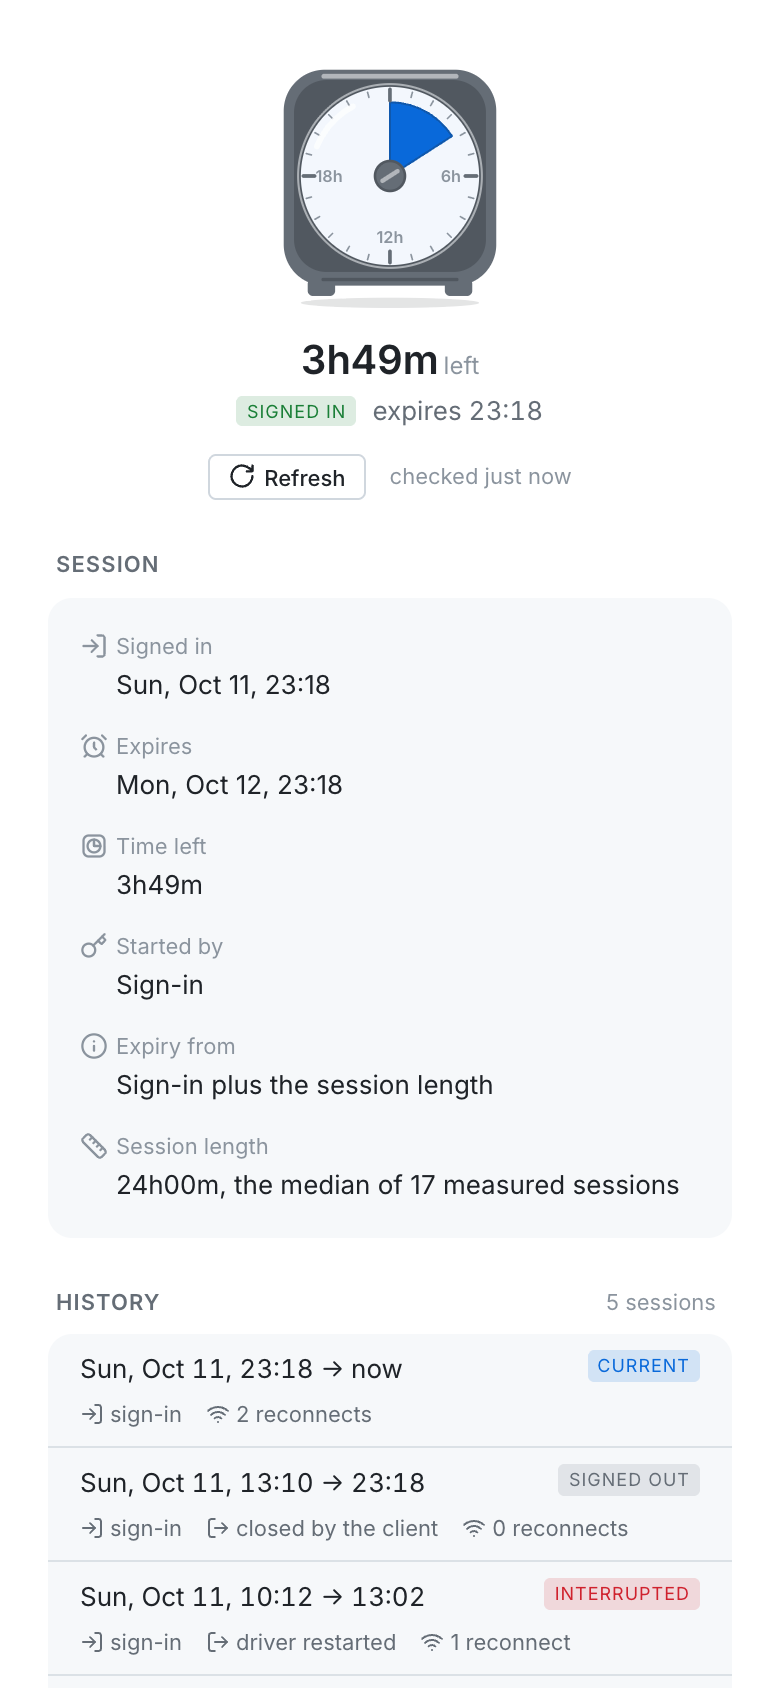
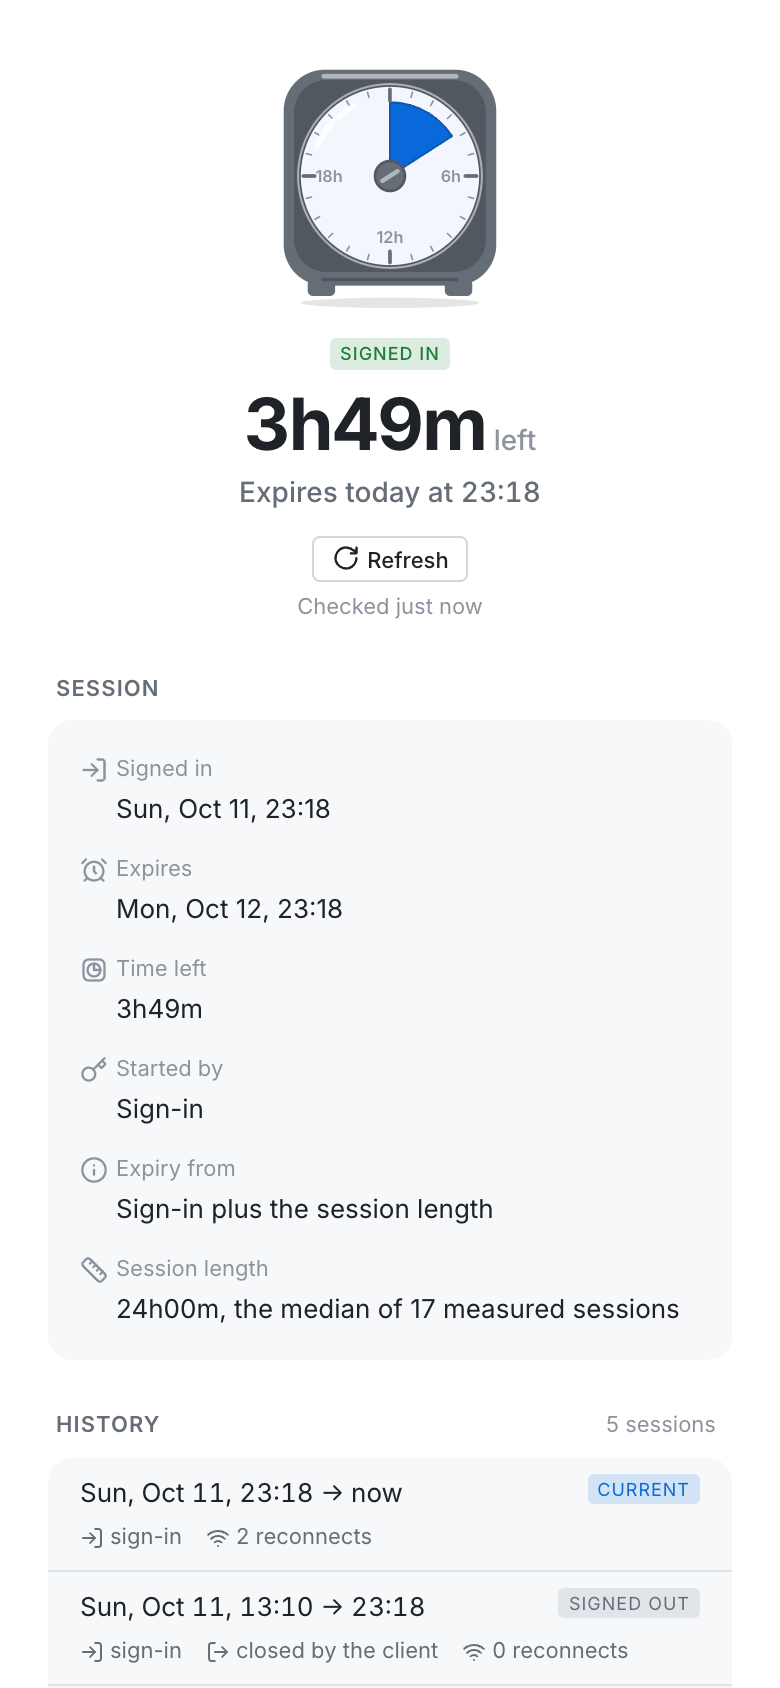
gatekeepr: bigger time left, expiry as its subtitle, checked time under Refresh
- The time left is the headline at display size, in the app and the
  widget, with the status chip above it in the app (only while signed
  in: Expired and Signed out already say so).
- When it expires is the subtitle right under it, with the day spelled
  out: "Expires today at 23:18", "Ran out ...", "Since ...".
- The last-checked time is a caption directly under the Refresh button,
  so the two read as one control.
- Regenerate the store screenshots.

diff --git a/gatekeepr/apps/gatekeepr-widget/index.html b/gatekeepr/apps/gatekeepr-widget/index.html
@@ -20,21 +20,24 @@
   [data-tone="danger"] { --tone: var(--accent-red); }
   [data-tone="muted"] { --tone: var(--text-muted); }
   .timer { width: 6.25rem; margin-bottom: var(--space-xs); }
-  .left { font-size: var(--font-size-3xl); font-weight: 600; line-height: 1.15; color: var(--text-primary); font-variant-numeric: tabular-nums; }
-  .left.is-word { font-size: var(--font-size-2xl); }
-  .left small { margin-left: 0.2em; font-size: var(--font-size-sm); font-weight: 400; color: var(--text-muted); }
+  /* The time left is the headline, and when it expires is its subtitle. */
+  .left { font-size: var(--font-size-display); font-weight: 700; line-height: 1.05; letter-spacing: -0.02em; color: var(--text-primary); font-variant-numeric: tabular-nums; }
+  .left.is-word { font-size: calc(var(--font-size-display) * 0.75); }
+  .left small { margin-left: 0.25em; font-size: var(--font-size-lg); font-weight: 500; letter-spacing: 0; color: var(--text-muted); }
   [data-tone="danger"] .left { color: var(--accent-red); }
 
-  .when { font-size: var(--font-size-md); color: var(--text-secondary); font-variant-numeric: tabular-nums; }
+  .when { margin-top: calc(-1 * var(--space-xs)); font-size: var(--font-size-lg); color: var(--text-secondary); font-variant-numeric: tabular-nums; }
   .problem { max-width: 18rem; font-size: var(--font-size-sm); color: var(--text-secondary); overflow-wrap: anywhere;
              display: -webkit-box; -webkit-box-orient: vertical; -webkit-line-clamp: 4; overflow: hidden; }
-  .note { font-size: var(--font-size-xs); color: var(--text-muted); }
+  /* Refresh with its last-checked time as a caption, so the two read as one control. */
+  .note { margin-top: calc(-1 * var(--space-xs)); font-size: var(--font-size-xs); color: var(--text-muted); }
   .refresh .mini-spinner { --spinner-color: currentColor; }
   .refresh .ic { width: var(--icon-size-sm); height: var(--icon-size-sm); margin-right: var(--space-xs); vertical-align: -0.125rem; }
 
   /* A floating widget window in minimal mode: the timer and its lines, on a fill of its own. */
   html[data-widget-mode="minimal"] body { padding: var(--space-md) var(--space-lg); background: var(--bg-secondary); border-radius: var(--radius-surface); }
   html[data-widget-mode="minimal"] .timer { width: 4.5rem; }
+  html[data-widget-mode="minimal"] .left { font-size: var(--font-size-3xl); }
   html[data-widget-mode="minimal"] .note, html[data-widget-mode="minimal"] .refresh, html[data-widget-mode="minimal"] .problem { display: none !important; }
   @media (pointer: coarse) {
     .action-btn { position: relative; }
@@ -47,8 +50,8 @@
   <div class="left" id="left">–</div>
   <div class="when" id="when"></div>
   <div class="problem" id="problem" hidden></div>
-  <div class="note" id="note" hidden></div>
   <button class="action-btn action-btn-secondary refresh" id="refresh" hidden>Refresh</button>
+  <div class="note" id="note" hidden></div>
 <script>
 lucidos.ui.applyPreferences();
 lucidos.ui.watchPreferences();
@@ -76,6 +79,11 @@ async function loadCadence() {
 }
 
 const clock = (iso) => new Date(iso).toLocaleTimeString([], { hour: '2-digit', minute: '2-digit', hourCycle: 'h23' });
+function relDay(iso) {          // "today at 23:18", "tomorrow at 09:14", or "Wed 14 at 09:14"
+  const days = Math.round((new Date(new Date(iso).toDateString()) - new Date(new Date().toDateString())) / 864e5);
+  const day = new Date(iso).toLocaleDateString([], { weekday: 'short', day: 'numeric' });
+  return `${days === 0 ? 'today' : days === 1 ? 'tomorrow' : days === -1 ? 'yesterday' : day} at ${clock(iso)}`;
+}
 // The CLI's own timeLeft style (6h08m, 25m, <1m), rounded down.
 function fmtLeft(s) {
   if (s < 60) return '<1m';
@@ -90,12 +98,12 @@ function view(w) {
   const s = w.status || {};
   if (!w.ok) return { tone: 'muted', value: 'Can’t check', word: true, problem: s.error || 'The check failed.', ask: true };
   if (s.state === 'noSession') return { tone: 'muted', value: 'No session', word: true, when: 'Nothing in the Appgate logs' };
-  if (s.state === 'signedOut') return { tone: 'muted', value: 'Signed out', word: true, when: s.sessionEnd ? `since ${clock(s.sessionEnd)}` : '' };
+  if (s.state === 'signedOut') return { tone: 'muted', value: 'Signed out', word: true, when: s.sessionEnd ? `Since ${relDay(s.sessionEnd)}` : '' };
   const left = s.secondsLeft - Math.floor((Date.now() - Date.parse(s.now)) / 1000);
-  if (s.state === 'expired' || left <= 0) return { tone: 'danger', value: 'Expired', word: true, when: `expired ${clock(s.expiresAt)}` };
+  if (s.state === 'expired' || left <= 0) return { tone: 'danger', value: 'Expired', word: true, when: `Ran out ${relDay(s.expiresAt)}` };
   return {
     tone: left <= s.warnThresholdSeconds ? 'warning' : 'normal',
-    value: fmtLeft(left), label: 'left', when: `expires ${clock(s.expiresAt)}`,
+    value: fmtLeft(left), label: 'left', when: `Expires ${relDay(s.expiresAt)}`,
     fraction: Math.max(0, Math.min(1, left / s.sessionLengthSeconds)),
   };
 }
@@ -113,7 +121,7 @@ function render() {
   $('problem').hidden = !v.problem;
   $('timer').setAttribute('aria-label', ['Appgate VPN', v.value + (v.label ? ' ' + v.label : ''), v.when].filter(Boolean).join(', '));
   const stale = snap && age > staleMs;
-  $('note').textContent = stale ? `checked ${lucidos.utils.timeAgo(snap.checked_at)}` : '';
+  $('note').textContent = stale ? `Checked ${lucidos.utils.timeAgo(snap.checked_at)}` : '';
   $('note').hidden = !stale;
   $('refresh').hidden = !(v.ask || stale || pending);
   $('refresh').disabled = !!pending;

diff --git a/gatekeepr/apps/gatekeepr/app.js b/gatekeepr/apps/gatekeepr/app.js
@@ -75,6 +75,10 @@ const clock = (iso) => new Date(iso).toLocaleTimeString([], { hour: '2-digit', m
 const day = (iso) => new Date(iso).toLocaleDateString([], { weekday: 'short', day: 'numeric', month: 'short' });
 const dayClock = (iso) => `${day(iso)}, ${clock(iso)}`;
 const sameDay = (a, b) => new Date(a).toDateString() === new Date(b).toDateString();
+function relDay(iso) {          // "today at 23:18", "tomorrow at 09:14", or "Wed, Oct 14 at 09:14"
+  const days = Math.round((new Date(new Date(iso).toDateString()) - new Date(new Date().toDateString())) / 864e5);
+  return `${days === 0 ? 'today' : days === 1 ? 'tomorrow' : days === -1 ? 'yesterday' : day(iso)} at ${clock(iso)}`;
+}
 function fmtLeft(s) {            // the CLI's timeLeft style: 6h08m, 25m, <1m, rounded down
   if (s < 60) return '<1m';
   const h = Math.floor(s / 3600), m = Math.floor((s % 3600) / 60);
@@ -136,18 +140,18 @@ async function loadSchedule() {
 /* Expiry is never recomputed: between checks the CLI's secondsLeft counts down by the time since its `now`,
  * which lands on its own expiresAt, and the state turns with its warnThresholdSeconds. */
 function view(w) {
-  if (!w) return { tone: 'muted', value: '–', headline: 'No check yet' };
+  if (!w) return { tone: 'muted', value: '–', subtitle: 'No check yet' };
   const s = w.status || {};
   if (!w.ok) return { tone: 'muted', value: 'Can’t check', word: true, problem: true };
-  if (s.state === 'noSession') return { tone: 'muted', value: 'No session', word: true, headline: 'No Appgate session anywhere in the logs' };
-  if (s.state === 'signedOut') return { tone: 'muted', value: 'Signed out', word: true, chip: ['Signed out', 'label label-neutral'], headline: s.sessionEnd ? `since ${dayClock(s.sessionEnd)}` : '' };
+  if (s.state === 'noSession') return { tone: 'muted', value: 'No session', word: true, subtitle: 'No Appgate session anywhere in the logs' };
+  if (s.state === 'signedOut') return { tone: 'muted', value: 'Signed out', word: true, subtitle: s.sessionEnd ? `Since ${relDay(s.sessionEnd)}` : '' };
   const left = s.secondsLeft - Math.floor((Date.now() - Date.parse(s.now)) / 1000);
-  if (s.state === 'expired' || left <= 0) return { tone: 'danger', value: 'Expired', word: true, chip: ['Expired', 'label label-error'], headline: `expired ${clock(s.expiresAt)}`, left: Math.min(left, 0) };
+  if (s.state === 'expired' || left <= 0) return { tone: 'danger', value: 'Expired', word: true, subtitle: `Ran out ${relDay(s.expiresAt)}`, left: Math.min(left, 0) };
   const soon = left <= s.warnThresholdSeconds;
   return {
     tone: soon ? 'warning' : 'normal', value: fmtLeft(left), label: 'left', left,
     chip: soon ? ['Expiring soon', 'label label-warning'] : ['Signed in', 'label label-success'],
-    headline: `expires ${clock(s.expiresAt)}`,
+    subtitle: `Expires ${relDay(s.expiresAt)}`,
     fraction: Math.max(0, Math.min(1, left / s.sessionLengthSeconds)),
   };
 }
@@ -165,9 +169,12 @@ function renderHero() {
   timer.draw(v.fraction || 0, S.status && S.status.status && S.status.status.sessionLengthSeconds);
   $('left').innerHTML = esc(v.value) + (v.label ? `<small>${esc(v.label)}</small>` : '');
   $('left').classList.toggle('is-word', !!v.word);
-  $('timer').setAttribute('aria-label', ['Appgate VPN', v.value + (v.label ? ' ' + v.label : ''), v.headline].filter(Boolean).join(', '));
-  $('headline').innerHTML = (v.chip ? `<span class="${v.chip[1]}">${esc(v.chip[0])}</span>` : '') + (v.headline ? `<span>${esc(v.headline)}</span>` : '');
-  $('headline').hidden = !v.chip && !v.headline;
+  $('timer').setAttribute('aria-label', ['Appgate VPN', v.value + (v.label ? ' ' + v.label : ''), v.subtitle].filter(Boolean).join(', '));
+  // The chip only adds something while signed in; "Expired" and "Signed out" are already the headline.
+  $('chip').innerHTML = v.chip ? `<span class="${v.chip[1]}">${esc(v.chip[0])}</span>` : '';
+  $('chip').hidden = !v.chip;
+  $('subtitle').textContent = v.subtitle || '';
+  $('subtitle').hidden = !v.subtitle;
 
   $('problem').hidden = !v.problem;
   if (v.problem) {
@@ -180,7 +187,7 @@ function renderHero() {
 
   $('refresh').disabled = !!S.pending;
   $('refresh').innerHTML = S.pending ? '<span class="mini-spinner" aria-hidden="true"></span> Refreshing' : `${ic('refresh')}Refresh`;
-  $('checked').textContent = S.status ? `checked ${lucidos.utils.timeAgo(S.status.checked_at)}` : '';
+  $('checked').textContent = S.status ? `Checked ${lucidos.utils.timeAgo(S.status.checked_at)}` : '';
 }
 
 function renderFacts() {

diff --git a/gatekeepr/apps/gatekeepr/index.html b/gatekeepr/apps/gatekeepr/index.html
@@ -23,13 +23,16 @@
   [data-tone="muted"] { --tone: var(--text-muted); }
   .hero { display: grid; justify-items: center; gap: var(--space-md); text-align: center; padding-top: var(--space-md); }
   .timer { width: 7.5rem; }
-  .left { font-size: var(--font-size-3xl); font-weight: 600; line-height: 1.15; color: var(--text-primary); font-variant-numeric: tabular-nums; margin-bottom: calc(-1 * var(--space-sm)); }
-  .left.is-word { font-size: var(--font-size-2xl); }
-  .left small { margin-left: 0.2em; font-size: var(--font-size-sm); font-weight: 400; color: var(--text-muted); }
+  /* The time left is the headline: a status chip above it, and when it expires as its subtitle. */
+  .title { display: grid; justify-items: center; gap: var(--space-xs); }
+  .left { font-size: var(--font-size-display); font-weight: 700; line-height: 1.05; letter-spacing: -0.02em; color: var(--text-primary); font-variant-numeric: tabular-nums; }
+  .left.is-word { font-size: calc(var(--font-size-display) * 0.75); }
+  .left small { margin-left: 0.25em; font-size: var(--font-size-lg); font-weight: 500; letter-spacing: 0; color: var(--text-muted); }
   .hero[data-tone="danger"] .left { color: var(--accent-red); }
-  .headline { display: flex; flex-wrap: wrap; justify-content: center; align-items: center; gap: var(--space-sm); font-size: var(--font-size-md); color: var(--text-secondary); font-variant-numeric: tabular-nums; }
-  .checkrow { display: flex; flex-wrap: wrap; justify-content: center; align-items: center; gap: var(--space-md); }
-  .checkrow .note { font-size: var(--font-size-xs); color: var(--text-muted); }
+  .subtitle { font-size: var(--font-size-lg); color: var(--text-secondary); font-variant-numeric: tabular-nums; }
+  /* Refresh with its last-checked time as a caption, so the two read as one control. */
+  .refresh-block { display: grid; justify-items: center; gap: var(--space-xs); }
+  .refresh-block .note { font-size: var(--font-size-xs); color: var(--text-muted); }
   .action-btn .mini-spinner { --spinner-color: currentColor; }
   .problem { width: 100%; box-sizing: border-box; text-align: left; background: var(--bg-secondary); border-radius: var(--radius-surface); padding: var(--space-lg); display: grid; gap: var(--space-sm); }
   .problem-head { display: flex; align-items: flex-start; gap: var(--space-sm); }
@@ -86,14 +89,17 @@
 <main class="page">
   <div class="hero" id="hero" data-tone="muted">
     <div class="timer" id="timer" role="img"></div>
-    <div class="left" id="left">–</div>
-    <div class="headline" id="headline"></div>
+    <div class="title">
+      <div id="chip" hidden></div>
+      <div class="left" id="left">–</div>
+      <div class="subtitle" id="subtitle" hidden></div>
+    </div>
     <div class="problem" id="problem" hidden>
       <div class="problem-head"><span data-icon="alert"></span><div class="problem-text" id="problem-text"></div></div>
       <div class="problem-hint" id="problem-hint"></div>
       <div class="button-group" id="problem-actions"></div>
     </div>
-    <div class="checkrow">
+    <div class="refresh-block">
       <button class="action-btn action-btn-secondary" id="refresh">Refresh</button>
       <span class="note" id="checked"></span>
     </div>
